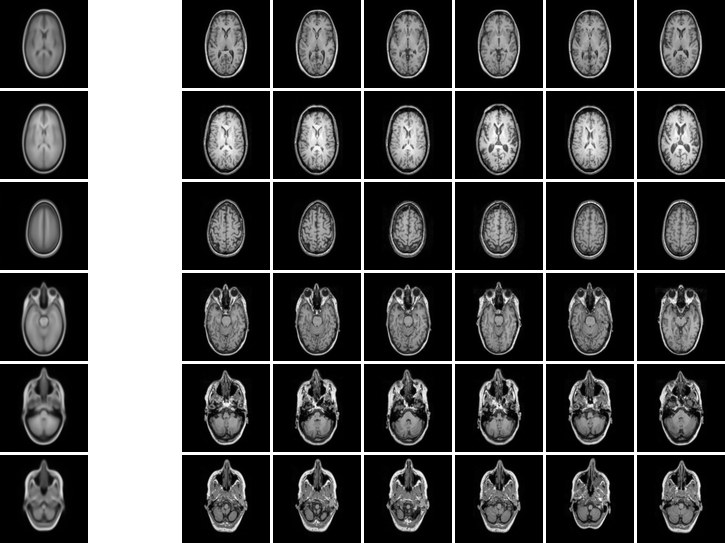
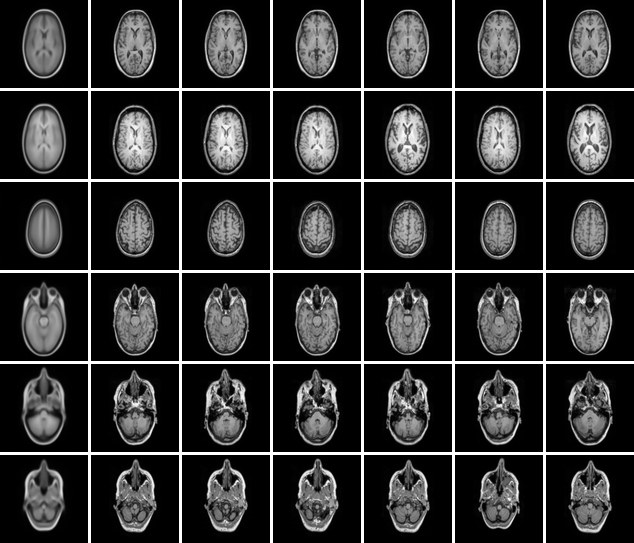
Fix blank 2-D charts (SVG instead of WebGL), remove spacer column in cluster figures, correct latent-spread captions

diff --git a/chapters/06-vae.html b/chapters/06-vae.html
@@ -39,13 +39,13 @@
 <p>So the decoder is fine. The problem is <b>where the random numbers land</b>. The usual random numbers come from a standard bell curve, N(0, 1): mostly between −2 and +2. But nobody told the AE to put its codes there. On our z = 16 AE, the codes have an average size of <b>2.7</b> and a spread between <b>4.6 and 8.6</b> per number. Most random draws simply land in places the decoder has never seen.</p>
 
 <h2 id="s2" data-short="2 · Gaps in the latent space"><span class="k">2.</span>Deterministic codes leave irregular gaps</h2>
-<p>A plain autoencoder maps each image to exactly <b>one point</b>. The loss only cares that each point can be decoded back into its own image. It says nothing about the space <i>between</i> points, so the model is free to scatter its codes in odd shapes, with empty regions in between. The left plot shows the real codes of the 2-number AE and VAE (dots only): the AE has long arms and gaps, the VAE a compact blob.</p>
+<p>A plain autoencoder maps each image to exactly <b>one point</b>. The loss only cares that each point can be decoded back into its own image. It says nothing about the space <i>between</i> points, so the model is free to scatter its codes in odd shapes, with empty regions in between. The plots below show the real codes of the 2-number models: the AE has long arms, gaps and far-away outliers; the VAEs are pulled in toward the centre, and the stronger the KL weight β, the closer they get to the prior.</p>
 </div>
 <div class="wide"><div class="two">
   <div class="fig"><div class="fig-h"><h4>AE, d = 2: one point per image</h4><span class="badge real">test codes</span></div><div id="ptsAE" class="chart sm"></div></div>
-  <div class="fig"><div class="fig-h"><h4>VAE β=0.1, d = 2: means μ of the clouds</h4><span class="badge real">test codes</span></div><div id="ptsVAE" class="chart sm"></div></div>
+  <div class="fig"><div class="fig-h"><h4>VAE, d = 2: means μ of the clouds</h4><div class="seg" id="ptsSeg"><button data-v="vae01">β = 0.1</button><button data-v="vae1" class="on">β = 1</button></div></div><div id="ptsVAE" class="chart sm"></div></div>
 </div>
-<p class="cap" style="max-width:760px;margin:0 auto"><b>Figure 6.2.</b> 1,500 real test slices, coloured by height in the head. Note the axis ranges: the AE's codes spread over tens of units in strange shapes; the VAE's means sit in a round region of a few units around 0, close to where N(0, I) puts its samples. A random point in the AE's box often falls in a gap; in the VAE's box it almost always lands near real data.</p></div>
+<p class="cap" style="max-width:760px;margin:0 auto"><b>Figure 6.2.</b> 1,500 real test slices, coloured by height in the head; the axes are drawn to the same scale as the AE. The AE's codes have a spread of about 3 with arms reaching +27 and −18. VAE β = 0.1 roughly halves that (spread 1.5–2, still stretched), and VAE β = 1 sits right where the prior is: centred on 0 with a spread of about 1.0, almost everything within ±4. A random N(0, I) point often falls in a gap of the AE's map; in the β = 1 map it almost always lands near real data.</p></div>
 
 <div class="article">
 <h2 id="s3" data-short="3 · Why probability distributions"><span class="k">3.</span>So we introduce probability distributions</h2>
@@ -190,9 +190,10 @@ samples = model.decoder(torch.randn(16, latent_dim))</code></pre>
 <script src="../assets/site.js"></script>
 <script>
 data().then(({D, D2}) => {
-  const pts = (el, P) => Plotly.newPlot(el, [{x: P.x, y: P.y, mode: "markers", type: "scattergl", hoverinfo: "skip", marker: {size: 4, color: P.c, colorscale: "Viridis", opacity: .8}}],
-    lay({margin: {l: 46, r: 10, t: 10, b: 40}, xaxis: {title: "z₁", gridcolor: "#eef2f7", zerolinecolor: "#94a3b8"}, yaxis: {title: "z₂", gridcolor: "#eef2f7", zerolinecolor: "#94a3b8", scaleanchor: "x"}, showlegend: false}), PCFG);
-  pts("ptsAE", D.planes.ixi_ae); pts("ptsVAE", D.planes.ixi_vae01);
+  const pts = (el, P) => Plotly.newPlot(el, [{x: P.x, y: P.y, mode: "markers", type: "scatter", hoverinfo: "skip", marker: {size: 4, color: P.c, colorscale: "Viridis", opacity: .8}}],
+    lay({margin: {l: 46, r: 10, t: 10, b: 40}, xaxis: {title: "z₁", range: [-12, 30], gridcolor: "#eef2f7", zerolinecolor: "#94a3b8"}, yaxis: {title: "z₂", range: [-20, 10], gridcolor: "#eef2f7", zerolinecolor: "#94a3b8"}, showlegend: false}), PCFG);
+  pts("ptsAE", D.planes.ixi_ae); pts("ptsVAE", D.planes.ixi_vae1);
+  seg($("#ptsSeg"), v => pts("ptsVAE", D.planes[`ixi_${v}`]));
   // mu / sigma cells
   picker($("#muPick"), D, k => {
     $("#muIn").src = A(`pick_${k}.png`);

diff --git a/chapters/03-latent-space.html b/chapters/03-latent-space.html
@@ -68,7 +68,7 @@
 <ol>
   <li><b>Similar slices sit together.</b> The colours form a smooth band from purple (low slices) to yellow (high slices). The model organised its latent space by anatomy without ever being told about it.</li>
   <li><b>The decoder draws something everywhere</b>, even where there are no dots. In the empty corners it has to guess, and those images are less realistic. Remember this, it is the key to chapter 6.</li>
-  <li><b>The shape of the cloud depends on the model.</b> Switch to "dots only" and compare AE with VAE. The AE spreads its codes in long arms with empty space between them. The VAE packs them into a round blob near the centre. Same data, same decoder, different rules.</li>
+  <li><b>The shape of the cloud depends on the model.</b> Switch to "dots only" and compare AE with VAE. The AE spreads its codes widely, in long arms with empty space between them (one number reaches +27). VAE β=0.1 roughly halves that spread but is still stretched. VAE β=1 packs them into a compact cloud centred on 0 with a spread of about 1, which is exactly the shape of the prior N(0, 1). Same data, same decoder, different rules.</li>
 </ol>
 
 <h2 id="size"><span class="k">4.</span>What happens when we change the latent size?</h2>
@@ -130,7 +130,7 @@ data().then(({D}) => {
   seg($("#travSeg"), v => $("#travImg").src = A(`traverse_ixi_${v}_2.png`)); $("#travImg").src = A("traverse_ixi_ae_2.png");
   let pk = 3;
   const getDs = seg($("#plDs"), () => draw()), getM = seg($("#plM"), () => draw()), getL = seg($("#plL"), () => draw());
-  const notes = {ae: "AE: codes spread in long arms, with empty regions between them.", vae01: "VAE β=0.1: codes packed into a rounder cloud near 0.", vae1: "VAE β=1: the tightest, smoothest map, and the blurriest images."};
+  const notes = {ae: "AE: codes spread in long arms, with empty regions between them.", vae01: "VAE β=0.1: about half the AE's spread, closer to 0, but still stretched in strips.", vae1: "VAE β=1: a compact cloud centred on 0 with spread ≈ 1 (the shape of N(0, 1)); the smoothest map and the blurriest images."};
   const draw = planeWidget(D, $("#plC"), $("#plP"), $("#plR"), () => ({ds: getDs(), mk: getM(), layer: getL()}), {pick: () => pk, after: s => {
     $("#plLeg").innerHTML = s.ds === "ixi" ? `<span>dots: real test slices, coloured by height in head</span><span>low<span class="vir"></span>high</span><span><i style="background:transparent;border:2px solid #38bdf8"></i>picked slice</span>`
       : `<span><i style="background:#60a5fa"></i>male</span><span><i style="background:#f472b6"></i>female</span><span>background tiles are generated faces (no real CelebA faces are shown)</span>`;

diff --git a/chapters/05-experiments.html b/chapters/05-experiments.html
@@ -93,8 +93,8 @@
 </div>
 <div class="fig">
   <div class="fig-h"><h4>What is in the CelebA latent clusters? (VAE β=0.1, d = 128)</h4><span class="badge gen">generated</span></div>
-  <div class="lg"><div></div><div></div><div class="rows"><span>#1</span><span>#2</span><span>#3</span><span>#4</span><span>#5</span><span>#6</span></div><img src="../assets/clusters_celeba_vae01_128.jpg" alt="celeba clusters"></div>
-  <figcaption><b>Figure 5.6.</b> k-means with 6 clusters on the latent codes of the test set. First column: the decoded cluster centre. Then 6 faces generated around that centre. The clusters split by hair colour, skin tone, lighting and background, the biggest sources of pixel variation in face photos.</figcaption>
+  <div class="lg"><div></div><div class="cols" style="grid-template-columns:repeat(7,1fr)"><span><b>decoded centre</b></span><span>sample 1</span><span>2</span><span>3</span><span>4</span><span>5</span><span>6</span></div><div class="rows"><span>#1</span><span>#2</span><span>#3</span><span>#4</span><span>#5</span><span>#6</span></div><img src="../assets/clusters_celeba_vae01_128.jpg" alt="celeba clusters"></div>
+  <figcaption><b>Figure 5.6.</b> k-means with 6 clusters on the latent codes of the test set. First column: the decoded cluster centre. The other 6 columns: faces generated around that centre. The clusters split by hair colour, skin tone, lighting and background, the biggest sources of pixel variation in face photos.</figcaption>
 </div></div>
 
 <div class="article">

diff --git a/chapters/08-ae-vs-vae.html b/chapters/08-ae-vs-vae.html
@@ -48,7 +48,7 @@
     <div><canvas id="pb" width="600" height="600" style="width:100%;aspect-ratio:1;border-radius:10px;background:#000"></canvas><div class="lab" style="color:var(--v01)">VAE β=0.1</div></div>
     <div><canvas id="pc" width="600" height="600" style="width:100%;aspect-ratio:1;border-radius:10px;background:#000"></canvas><div class="lab" style="color:var(--v1)">VAE β=1</div></div>
   </div>
-  <figcaption><b>Figure 8.2.</b> Each panel: real test codes (dots, coloured by slice height) on top of what the decoder draws everywhere. All three learn the same anatomy-ordered layout. The AE spreads it over irregular arms, the VAEs pack it into a rounder region. The β=1 map is the smoothest and also the blurriest. Explore them with the mouse in chapter 3.</figcaption>
+  <figcaption><b>Figure 8.2.</b> Each panel: real test codes (dots, coloured by slice height) on top of what the decoder draws everywhere. All three learn the same anatomy-ordered layout. The AE spreads it widely over irregular arms. VAE β=0.1 pulls it in to about half that spread. VAE β=1 packs it into a compact cloud centred on 0 with a spread of about 1, the shape of the prior; its map is the smoothest and also the blurriest. Explore them with the mouse in chapter 3.</figcaption>
 </div></div>
 
 <div class="article"><h2 id="gen"><span class="k">4.</span>Generation and interpolation</h2></div>

diff --git a/assets/site.js b/assets/site.js
@@ -180,7 +180,7 @@ function scatter(el, D, s, {picks = true, height} = {}) {
   const k = +s.dim, name = s.z <= k ? `raw_${Math.min(s.z, k)}d` : `${s.method}_${k}d`;
   const emb = e[name], kk = emb[0].length, all = [...emb.keys()];
   const xyz = idx => ({x: idx.map(i => emb[i][0]), y: idx.map(i => emb[i][1]), ...(kk === 3 ? {z: idx.map(i => emb[i][2])} : {})});
-  const type = kk === 3 ? "scatter3d" : "scattergl", size = kk === 3 ? 2.6 : 5, tr = [], base = {mode: "markers", hoverinfo: "skip"};
+  const type = kk === 3 ? "scatter3d" : "scatter", size = kk === 3 ? 2.6 : 5, tr = [], base = {mode: "markers", hoverinfo: "skip"};
   const lab = s.colour === "cluster" ? e.cluster : e.lab[s.colour];
   if (s.colour === "cluster") for (let c = 0; c < 6; c++) { const idx = all.filter(i => lab[i] === c); tr.push({...base, type, ...xyz(idx), name: `cluster ${c + 1}`, marker: {size, color: CLUSTER[c], opacity: .8}}); }
   else if (s.ds === "celeba") for (const [v, nm, col] of [[0, "no", "#cbd5e1"], [1, "yes", "#db2777"]]) { const idx = all.filter(i => lab[i] === v); tr.push({...base, type, ...xyz(idx), name: `${s.colour.replace("_", " ")}: ${nm}`, marker: {size, color: col, opacity: v ? .9 : .55}}); }

diff --git a/chapters/04-visualizing.html b/chapters/04-visualizing.html
@@ -150,7 +150,7 @@ umap2 = umap.UMAP(n_neighbors=15, min_dist=0.1, random_state=42).fit_transform(x
 <script src="../assets/site.js"></script>
 <script>
 data().then(({D, D2}) => {
-  const mini = (el, xy, col, title) => Plotly.react(el, [{x: xy.map(p => p[0]), y: xy.map(p => p[1]), mode: "markers", type: "scattergl", hoverinfo: "skip",
+  const mini = (el, xy, col, title) => Plotly.react(el, [{x: xy.map(p => p[0]), y: xy.map(p => p[1]), mode: "markers", type: "scatter", hoverinfo: "skip",
     marker: {size: 3.6, color: col, colorscale: "Viridis", opacity: .85}}], lay({margin: {l: 6, r: 6, t: 6, b: 6}, xaxis: {visible: false}, yaxis: {visible: false}, showlegend: false}), PCFG);
   const pv = D2.pca_var;
   const getM = seg($("#dsM"), () => four());

diff --git a/tools/build_assets.py b/tools/build_assets.py
@@ -246,7 +246,7 @@ def main():
         for ci in order:
             members = np.where(km.labels_ == ci)[0]
             centre = torch.tensor(km.cluster_centers_[ci]).float()[None]
-            row = [m.decode(centre)[0], None]
+            row = [m.decode(centre)[0]]
             if ds == "ixi":
                 near = members[np.argsort(((lat[members] - km.cluster_centers_[ci]) ** 2).sum(1))[:6]]
                 row += [ixi_test[int(c["test_index"][j])] for j in near]
